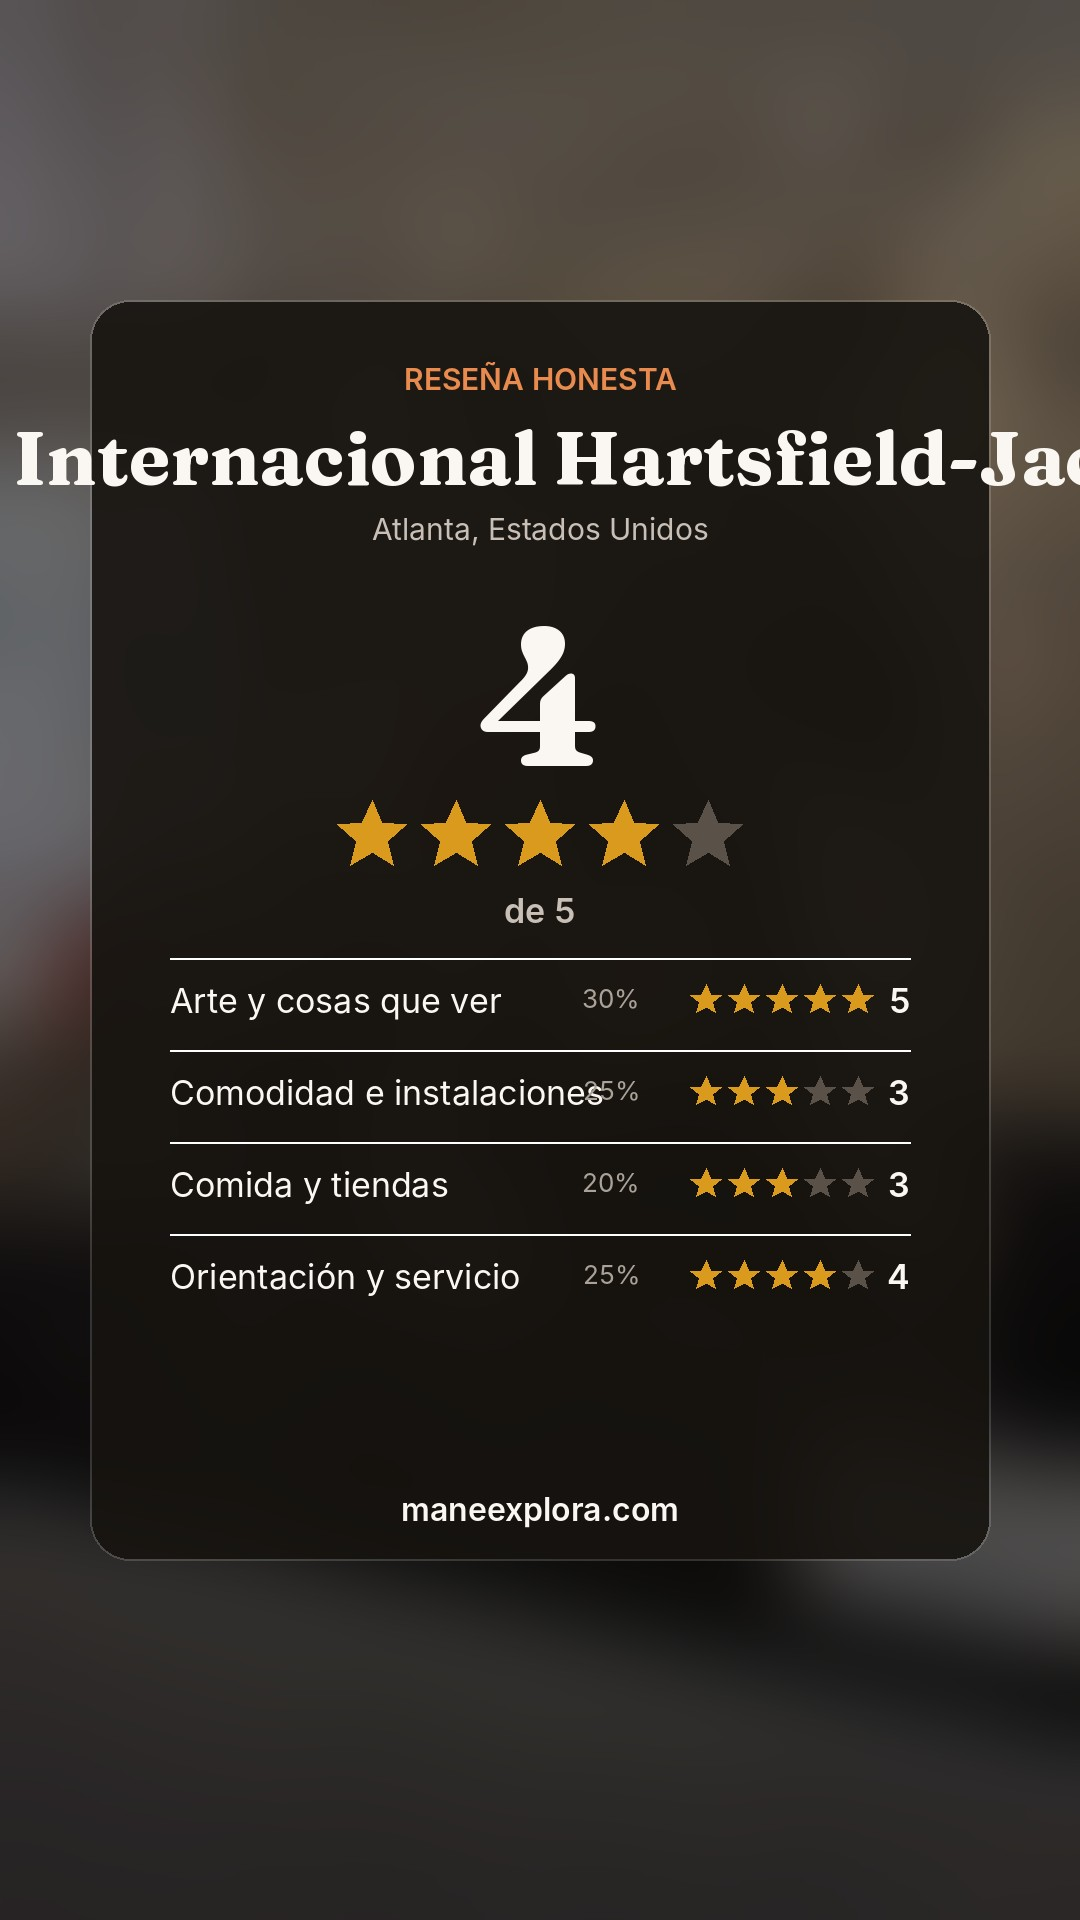
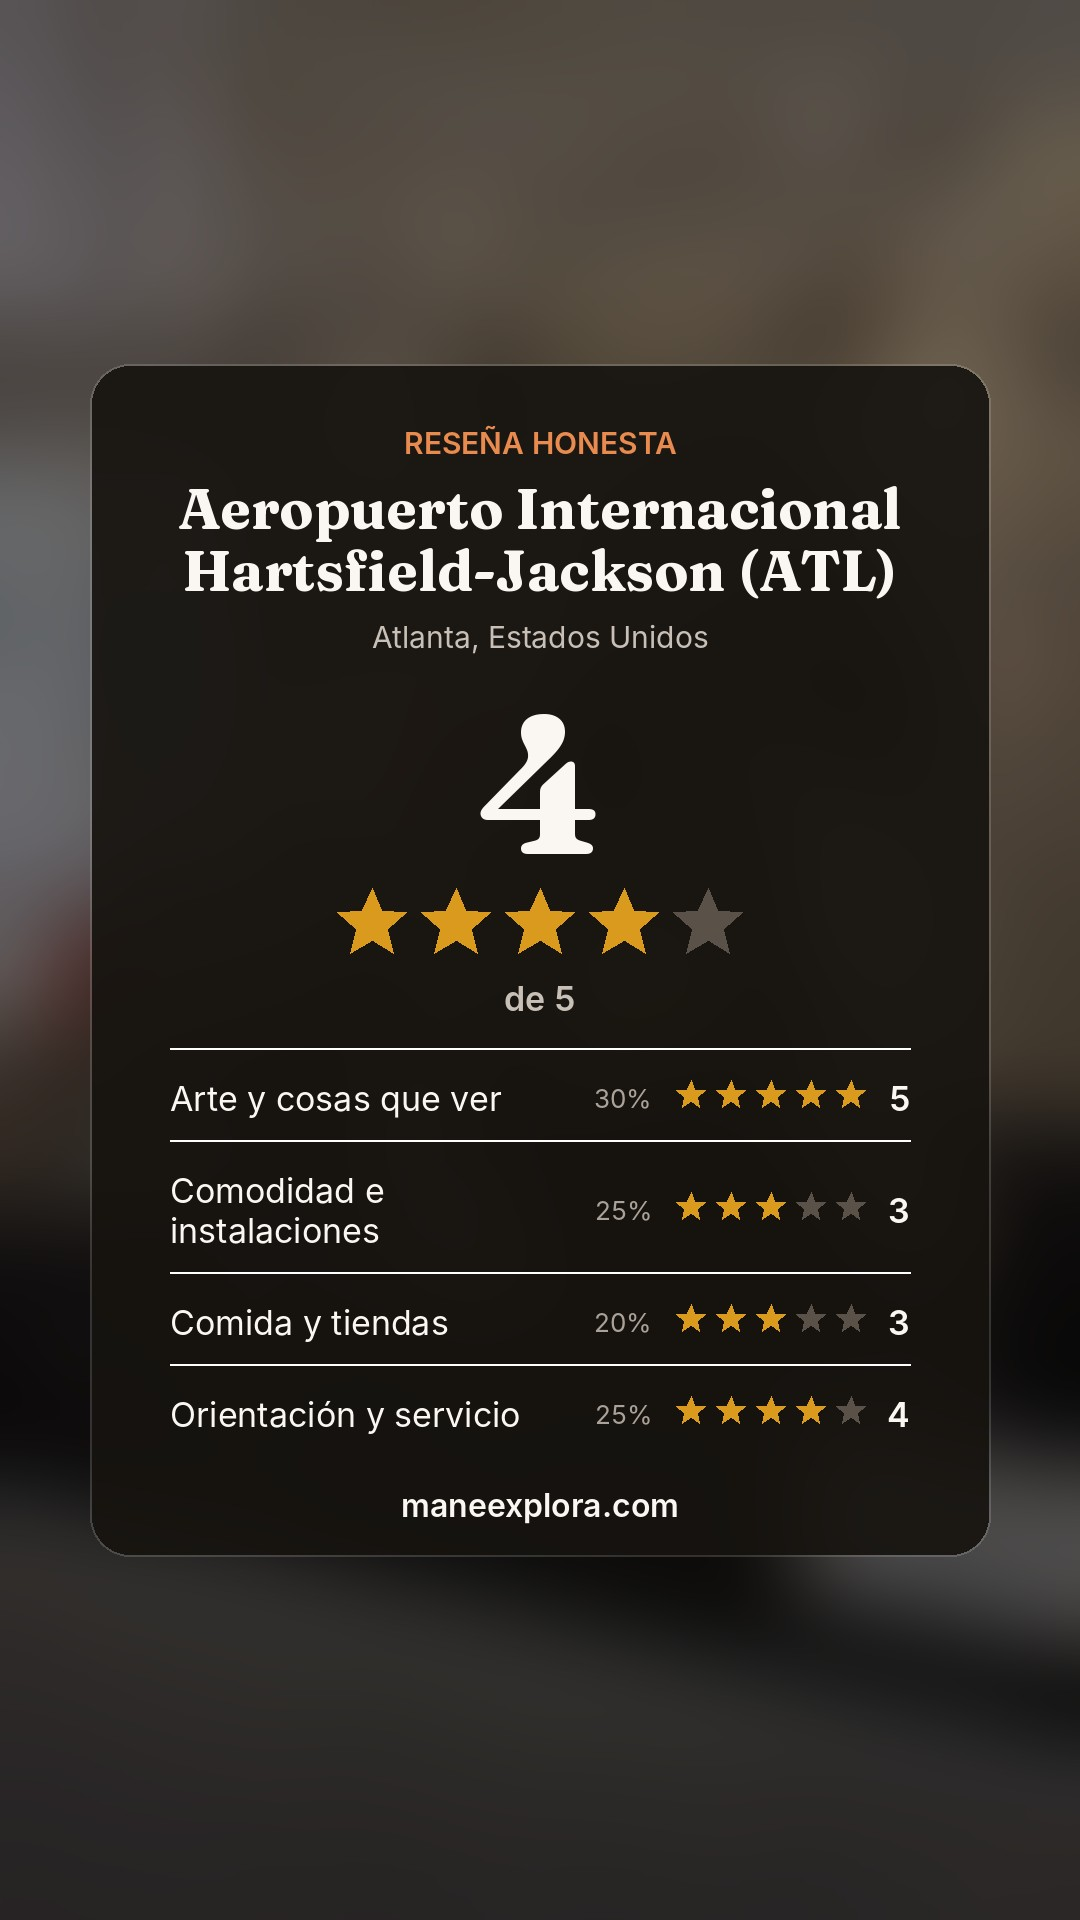
Tarjeta de calificación: el texto se ajusta solo al panel (nombre en 2 líneas, criterios largos partidos)
Claude-Session: https://claude.ai/code/session_01GhBK2YVmfS443snH6m47yU

diff --git a/tools/stories.py b/tools/stories.py
@@ -114,32 +114,69 @@ def stars(c, x, y, r, value, gap):
             ImageDraw.Draw(mask).rectangle([cx - r, y, cx - r + 2 * r * frac, y + 2 * r], fill=255)
             c.paste(on, (0, 0), Image.composite(on.split()[3], Image.new("L", c.size, 0), mask))
 
+def _fit(d, text, fpath, size, maxw, min_size, weight="Bold", max_lines=2):
+    """Ajusta el texto al ancho: reduce la fuente y, si hace falta, lo parte en líneas."""
+    while True:
+        f = font(fpath, size, weight)
+        words, lines, cur = text.split(), [], ""
+        for w_ in words:
+            t = (cur + " " + w_).strip()
+            if d.textlength(t, font=f) <= maxw or not cur: cur = t
+            else: lines.append(cur); cur = w_
+        lines.append(cur)
+        if (len(lines) <= max_lines and all(d.textlength(l, font=f) <= maxw for l in lines)) or size <= min_size:
+            return f, lines, size
+        size -= 2
+
 def rating_card(p):
     """Tarjeta de calificación: no necesita sticker, se puede publicar en automático."""
     photo = Image.open(os.path.join(ROOT, "static", p["cover"].lstrip("/"))).convert("RGB")
     c = background(photo).convert("RGBA")
     d = ImageDraw.Draw(c)
     raw, final, w = weighted(p["scores"])
-    panel = (90, 300, 990, 1560)
-    ov = Image.new("RGBA", (W, H), (0, 0, 0, 0))
-    ImageDraw.Draw(ov).rounded_rectangle(panel, 40, fill=(22, 19, 15, 228), outline=(255, 255, 255, 40), width=2)
-    c.alpha_composite(ov)
-    d.text((W / 2, 360), "RESEÑA HONESTA", font=inter(30, "SemiBold"), fill=ACCENT, anchor="ma")
-    d.text((W / 2, 410), p["place"], font=font(os.path.join(FONTS, "Fraunces.ttf"), 76, "Bold"), fill=CREAM, anchor="ma")
-    d.text((W / 2, 510), p["city"], font=inter(30, "Regular"), fill=(200, 192, 182), anchor="ma")
-    d.text((W / 2, 580), f"{final:g}", font=font(os.path.join(FONTS, "Fraunces.ttf"), 190, "Bold"), fill=CREAM, anchor="ma")
-    stars(c, W / 2 - 2.5 * 84 + 6, 800, 36, final, 84)
-    label = verdict(final, "es") if p.get("verdict_label") else "de 5"
-    d.text((W / 2, 890), label, font=inter(34, "SemiBold"), fill=ACCENT if p.get("verdict_label") else (200, 192, 182), anchor="ma")
-    y = 980
+    FR = os.path.join(FONTS, "Fraunces.ttf")
+    L, R = 170, 910                      # márgenes internos del panel
+    name = p.get("card_name") or p["place"]
+    tf, tlines, ts = _fit(d, name, FR, 76, R - L, 44)
+    lh = int(ts * 1.12)
+    # Columnas de criterios: etiqueta | peso | estrellas | número
+    STAR, GAP = 34, 6
+    num_x = R; stars_x = num_x - 40 - (5 * STAR + 4 * GAP); wt_x = stars_x - 24
+    lab_w = wt_x - 70 - L
+    rows = []
     for k, v in p["scores"].items():
-        d.line([(170, y - 22), (910, y - 22)], fill=(255, 255, 255, 50), width=2)
-        d.text((170, y), k, font=inter(34, "Regular"), fill=CREAM, anchor="la")
-        d.text((640, y + 2), f"{w[k]*100:.0f}%", font=inter(26, "Regular"), fill=(170, 162, 152), anchor="ra")
-        stars(c, 690, y + 4, 16, v, 38)
-        d.text((910, y), f"{v:g}", font=inter(34, "SemiBold"), fill=CREAM, anchor="ra")
-        y += 92
-    d.text((W / 2, 1490), "maneexplora.com", font=inter(32, "SemiBold"), fill=CREAM, anchor="ma")
+        lf, ll, _ = _fit(d, k, os.path.join(INTER, "Inter-Regular.otf"), 34, lab_w, 28, None)
+        rows.append((k, v, lf, ll))
+    title_h = lh * len(tlines)
+    rows_h = sum(60 + 40 * (len(r[3]) - 1) + 32 for r in rows)
+    top = 300
+    bottom = top + 60 + 50 + title_h + 20 + 50 + 220 + 70 + 70 + rows_h + 40 + 80
+    top = max(140, (H - (bottom - top)) // 2); bottom = top + (bottom - 300)
+    ov = Image.new("RGBA", (W, H), (0, 0, 0, 0))
+    ImageDraw.Draw(ov).rounded_rectangle((90, top, 990, bottom), 40, fill=(22, 19, 15, 232), outline=(255, 255, 255, 40), width=2)
+    c.alpha_composite(ov)
+    y = top + 60
+    d.text((W / 2, y), "RESEÑA HONESTA", font=inter(30, "SemiBold"), fill=ACCENT, anchor="ma"); y += 50
+    for ln in tlines:
+        d.text((W / 2, y), ln, font=tf, fill=CREAM, anchor="ma"); y += lh
+    y += 20
+    d.text((W / 2, y), p["city"], font=inter(30, "Regular"), fill=(200, 192, 182), anchor="ma"); y += 50
+    d.text((W / 2, y), f"{final:g}", font=font(FR, 190, "Bold"), fill=CREAM, anchor="ma"); y += 220
+    stars(c, W / 2 - 2.5 * 84 + 6, y, 36, final, 84); y += 90
+    label = verdict(final, "es") if p.get("verdict_label") else "de 5"
+    d.text((W / 2, y), label, font=inter(34, "SemiBold"), fill=ACCENT if p.get("verdict_label") else (200, 192, 182), anchor="ma"); y += 70
+    for k, v, lf, ll in rows:
+        d.line([(L, y), (R, y)], fill=(255, 255, 255, 50), width=2)
+        y += 30
+        rh = 40 * (len(ll) - 1)
+        for i, ln in enumerate(ll):
+            d.text((L, y + i * 40), ln, font=lf, fill=CREAM, anchor="la")
+        cy = y + rh / 2
+        d.text((wt_x, cy + 4), f"{w[k]*100:.0f}%", font=inter(26, "Regular"), fill=(170, 162, 152), anchor="ra")
+        stars(c, stars_x, cy + 2, 15, v, STAR + GAP)
+        d.text((num_x, cy), f"{v:g}", font=inter(34, "SemiBold"), fill=CREAM, anchor="ra")
+        y += rh + 62
+    d.text((W / 2, bottom - 70), "maneexplora.com", font=inter(32, "SemiBold"), fill=CREAM, anchor="ma")
     return c.convert("RGB")
 
 def main(slugs):
